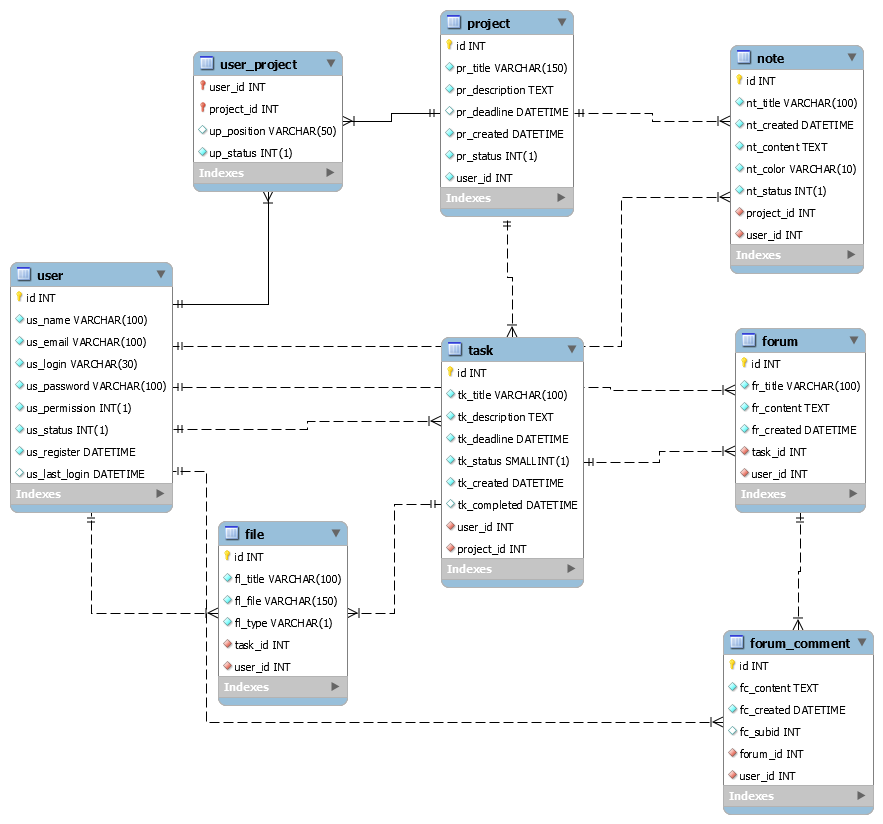
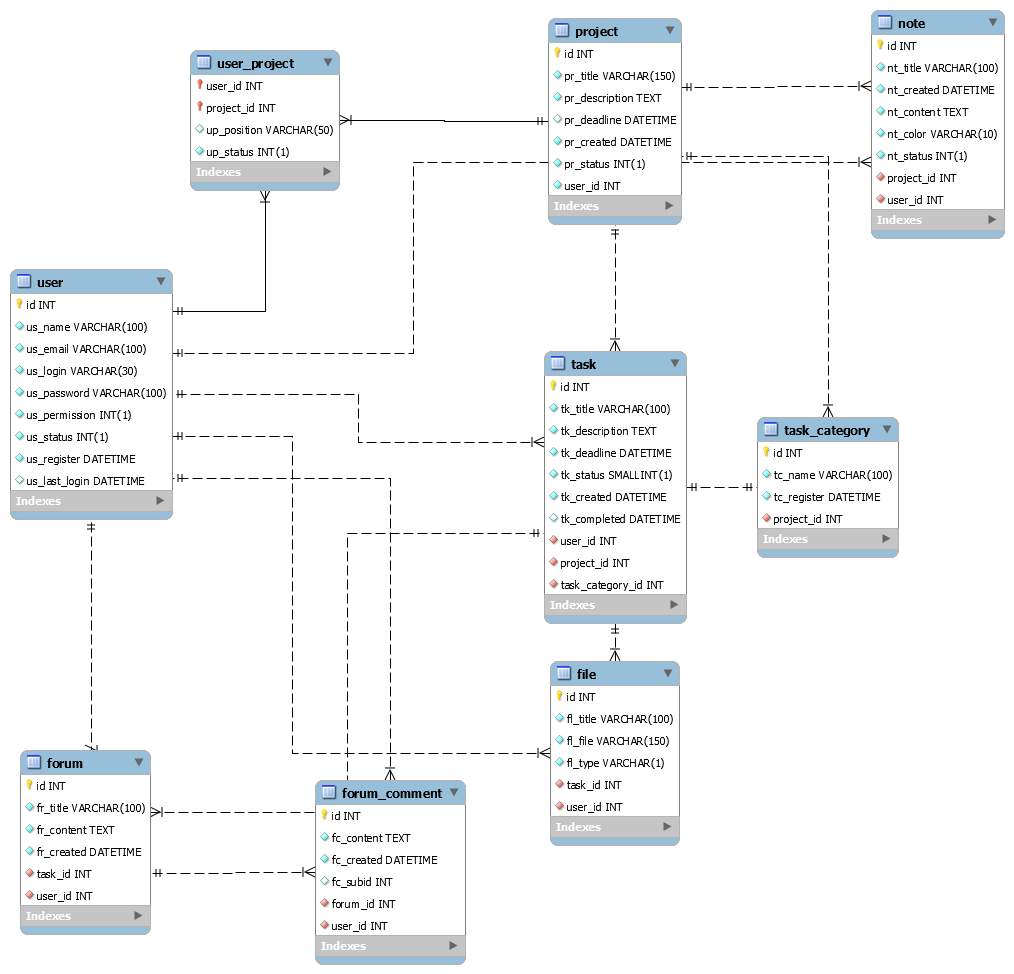
Include task category select in CRUD task

diff --git a/Public/js/task.js b/Public/js/task.js
@@ -6,7 +6,7 @@ document.addEventListener("DOMContentLoaded", function(){
   });
 }, false);
 
-function validateProject(update = false){
+function validateTask(update = false){
   var msg = "";
 
   if(update && valueById("txtId") <= 0)
@@ -23,6 +23,9 @@ function validateProject(update = false){
 
   if(valueById("slStatus") < 1 || valueById("slStatus") > 3)
     msg += "<p>- Status inválido</p>";
+
+  if(valueById("slCategory") < 1 || valueById("slStatus") == "")
+    msg += "<p>- Selecione uma categoria</p>";
 
   setHTMLById("dvAlert", msg);
 

diff --git a/App/Model/TaskModel.php b/App/Model/TaskModel.php
@@ -12,7 +12,7 @@ class TaskModel{
 
   public function store(Task $task){
     try{
-      $sql = "INSERT INTO task (tk_title, tk_description, tk_deadline, tk_created, tk_status, user_id, project_id) VALUES (:title, :description, :deadline, :created, :status, :userid, :projectid)";
+      $sql = "INSERT INTO task (tk_title, tk_description, tk_deadline, tk_created, tk_status, user_id, task_category_id, project_id) VALUES (:title, :description, :deadline, :created, :status, :userid, :taskcategoryid, :projectid)";
 
       $params = array(
         ":title"       => $task->getTitle(),
@@ -20,6 +20,7 @@ class TaskModel{
         ":deadline"    => $task->getDeadline(),
         ":created"     => $task->getCreated(),
         ":status"      => $task->getStatus(),
+        ":taskcategoryid" => $task->getCategory()->getId(),
         ":userid"      => $task->getUser()->getId(),
         ":projectid"   => $task->getProject()->getId()
       );
@@ -38,7 +39,7 @@ class TaskModel{
 
   public function update(Task $task){
     try{
-      $sql = "UPDATE task SET tk_title = :title, tk_description = :description,tk_completed = :completed, tk_deadline = :deadline, tk_status = :status WHERE user_id = :userid AND project_id = :projectid AND id = :id";
+      $sql = "UPDATE task SET tk_title = :title, tk_description = :description,tk_completed = :completed, tk_deadline = :deadline, tk_status = :status, task_category_id = :taskcategoryid WHERE user_id = :userid AND project_id = :projectid AND id = :id";
 
       $params = array(
         ":id"          => $task->getId(),
@@ -48,6 +49,7 @@ class TaskModel{
         ":completed"    => $task->getCompleted(),
         ":status"      => $task->getStatus(),
         ":userid"      => $task->getUser()->getId(),
+        ":taskcategoryid" => $task->getCategory()->getId(),
         ":projectid"   => $task->getProject()->getId()
       );
 
@@ -65,7 +67,7 @@ class TaskModel{
 
   public function getById(int $taskId, int $projectId){
     try{
-      $sql = "SELECT t.tk_title, t.tk_description, t.tk_deadline, t.tk_status, t.tk_created, t.tk_completed, u.us_name, u.id as userid FROM task t INNER JOIN user u ON u.id = t.user_id WHERE t.project_id = :projectid AND t.id = :taskid";
+      $sql = "SELECT t.tk_title, t.tk_description, t.tk_deadline, t.tk_status, t.tk_created, t.task_category_id, t.tk_completed, tc.tc_name, u.us_name, u.id as userid FROM task t INNER JOIN user u ON u.id = t.user_id INNER JOIN task_category tc ON tc.id = t.task_category_id WHERE t.project_id = :projectid AND t.id = :taskid";
       $params = array(
         ":projectid" => $projectId,
         ":taskid" => $taskId
@@ -74,14 +76,16 @@ class TaskModel{
       $dr = $this->pdo->ExecuteQueryOneRow($sql, $params);
       return (object)[
         "id" => $taskId,
-        "title" => $dr["tk_title"],
-        "description" => $dr["tk_description"],
-        "deadline" => $dr["tk_deadline"],
-        "status" => $dr["tk_status"],
-        "created" => $dr["tk_created"],
-        "completed" => $dr["tk_completed"],
-        "userid" => $dr["userid"],
-        "username" => $dr["us_name"],
+        "title" => $dr["tk_title"] ?? null,
+        "description" => $dr["tk_description"] ?? null,
+        "deadline" => $dr["tk_deadline"] ?? null,
+        "status" => $dr["tk_status"] ?? null,
+        "created" => $dr["tk_created"] ?? null,
+        "completed" => $dr["tk_completed"] ?? null,
+        "taskCategoryId" => $dr["task_category_id"] ?? null,
+        "taskCategoryName" => $dr["tc_name"] ?? null,
+        "userid" => $dr["userid"] ?? null,
+        "username" => $dr["us_name"] ?? null
       ];
     }catch(PDOException $ex){
       echo $ex->getMessage();
@@ -89,14 +93,15 @@ class TaskModel{
     }
   }
 
-  public function getAllResumed(int $projectId = 0){
+  public function getAllResumed(int $projectId = 0, $limit = 2){
     try{
-      $sql = "SELECT t.id, t.tk_title, t.tk_deadline, t.tk_status, t.tk_created, t.tk_completed, u.us_name FROM task t INNER JOIN user u ON u.id = t.user_id WHERE t.project_id = :projectid ORDER BY t.tk_created DESC";
-      $param = array(
-        ":projectid" => $projectId
-      );
+      $sql = "SELECT t.id, t.tk_title, t.tk_deadline, t.tk_status, t.tk_created, t.tk_completed, tc.tc_name, u.us_name FROM task t INNER JOIN user u ON u.id = t.user_id INNER JOIN task_category tc ON tc.id = t.task_category_id WHERE t.project_id = :projectid ORDER BY t.tk_created DESC LIMIT :limit";
+      $params = [
+        ":projectid" => $projectId,
+        ":limit"     => $limit
+      ];
 
-      $dt = $this->pdo->ExecuteQuery($sql, $param);
+      $dt = $this->pdo->ExecuteQuery($sql, $params);
       $list = [];
 
       foreach($dt as $dr){
@@ -106,6 +111,7 @@ class TaskModel{
           "deadline" => $dr["tk_deadline"],
           "status" => $dr["tk_status"],
           "created" => $dr["tk_created"],
+          "taskCategoryName" => $dr["tc_name"],
           "completed" => $dr["tk_completed"],
           "username" => $dr["us_name"]
         ];

diff --git a/App/Controller/TaskController.php b/App/Controller/TaskController.php
@@ -4,6 +4,7 @@ namespace App\Controller;
 use App\Core\Controller;
 use App\Model\TaskModel;
 use App\Model\ForumModel;
+use App\Model\CategoryModel;
 use App\Model\UploadModel;
 use App\Entity\Task;
 
@@ -22,7 +23,9 @@ class TaskController extends Controller{
   }
 
   public function create(){
-    $this->Load("task/create.php");
+    $this->Load("task/create.php", [
+      "categoryList" => (new CategoryModel)->getAllByProjectId($_COOKIE['pi'])
+    ]);
   }
 
   public function Headercreate(){
@@ -32,10 +35,13 @@ class TaskController extends Controller{
   public function store(){
     $task = new Task();
 
+    $deadLine = filter_input(INPUT_POST, "txtDeadline", FILTER_SANITIZE_STRING);
+
     $task->setTitle(filter_input(INPUT_POST, "txtTitle", FILTER_SANITIZE_STRING));
     $task->setDescription(filter_input(INPUT_POST, "txtDescription", FILTER_SANITIZE_SPECIAL_CHARS));
-    $task->setDeadline(filter_input(INPUT_POST, "txtDeadline", FILTER_SANITIZE_STRING));
+    $task->setDeadline($deadLine . " 23:59:59 ");
     $task->setStatus(filter_input(INPUT_POST, "slStatus", FILTER_SANITIZE_NUMBER_INT));
+    $task->getCategory()->setId(filter_input(INPUT_POST, "slCategory", FILTER_SANITIZE_NUMBER_INT));
     $task->setCreated(getCurrentDate());
     $task->getUser()->setId($_SESSION["i"]);
     $task->getProject()->setId($_COOKIE['pi']);
@@ -43,9 +49,9 @@ class TaskController extends Controller{
     $id = $this->taskModel->store($task);
 
     if($id > 0)
-    redirect(BASE . "task/show/{$id}");
+      redirect(BASE . "task/show/{$id}");
     else
-    $this->Load("task/result.php", ["message" => "Houve um erro ao tentar cadastrar"]);
+      $this->Load("task/result.php", ["message" => "Houve um erro ao tentar cadastrar"]);
   }
 
   //UPDATE
@@ -66,7 +72,8 @@ class TaskController extends Controller{
 
     $this->Load("task/edit.php", [
       "task" => $task,
-      "editable" => $editable
+      "editable" => $editable,
+      "categoryList" => (new CategoryModel)->getAllByProjectId($_COOKIE['pi'])
     ]);
   }
 
@@ -77,11 +84,14 @@ class TaskController extends Controller{
   public function update(){
     $task = new Task();
 
+    $deadLine = filter_input(INPUT_POST, "txtDeadline", FILTER_SANITIZE_STRING);
+
     $task->setId(filter_input(INPUT_POST, "txtId", FILTER_SANITIZE_NUMBER_INT));
     $task->setTitle(filter_input(INPUT_POST, "txtTitle", FILTER_SANITIZE_STRING));
     $task->setDescription(filter_input(INPUT_POST, "txtDescription", FILTER_SANITIZE_SPECIAL_CHARS));
-    $task->setDeadline(filter_input(INPUT_POST, "txtDeadline", FILTER_SANITIZE_STRING));
+    $task->setDeadline($deadLine . " 23:59:59 ");
     $task->setStatus(filter_input(INPUT_POST, "slStatus", FILTER_SANITIZE_NUMBER_INT));
+    $task->getCategory()->setId(filter_input(INPUT_POST, "slCategory", FILTER_SANITIZE_NUMBER_INT));
 
     if($task->getStatus() == 3){
       $task->setCompleted(getCurrentDate());

diff --git a/App/View/task/edit.php b/App/View/task/edit.php
@@ -13,7 +13,7 @@
       </div>
     </div>
 
-    <form action="<?=BASE?>task/update" method="post" onsubmit="return validateProject(true);">
+    <form action="<?=BASE?>task/update" method="post" onsubmit="return validateTask(true);">
       <div class="row">
         <div class="col-md-4">
           <label for="txtTitle">Título</label>
@@ -21,12 +21,21 @@
           <input type="text" name="txtTitle" id="txtTitle" class="form-control" placeholder="Project title" value="<?=$task->title;?>" <?=!$editable ? "disabled" : ""?>>
         </div>
 
-        <div class="col-md-4">
+        <div class="col-md-2">
           <label for="txtDeadline">Deadline</label>
-          <input type="datetime-local" name="txtDeadline" id="txtDeadline" class="form-control" value="<?=convertDate($task->deadline, "Y-m-d\TH:i:s");?>" <?=!$editable ? "disabled" : ""?>>
+          <input type="date" name="txtDeadline" id="txtDeadline" class="form-control" value="<?=convertDate($task->deadline, "Y-m-d");?>" <?=!$editable ? "disabled" : ""?>>
         </div>
 
-        <div class="col-md-4">
+        <div class="col-md-3">
+          <label for="slStatus">Categoria</label>
+          <select class="form-control" name="slCategory" id="slCategory">
+            <?php foreach($categoryList as $category) :?>
+              <option value="<?=$category->id?>" class="text-info" <?=$category->id == $task->taskCategoryId ? "selected" : "" ?>><?=$category->name?></option>
+            <?php endforeach;?>
+          </select>
+        </div>
+
+        <div class="col-md-3">
           <label for="slStatus">Status</label>
           <select class="form-control" name="slStatus" id="slStatus" <?=!$editable ? "disabled" : ""?>>
             <option value="1" <?=$task->status == 1 ? "selected" : "";?> class="text-success">Ativo</option>

diff --git a/App/View/task/show.php b/App/View/task/show.php
@@ -13,7 +13,7 @@
       </div>
 
       <div class="col-md-6">
-        <?php if( $task->completed == null): ?>
+        <?php if($task->status == 1): ?>
           <a href="<?=BASE?>forum/create/<?=$task->id?>" class="btn btn-info">Novo fórum</a>
           <a href="#" class="btn btn-primary" data-toggle="modal" data-target="#modalUpload">Upload</a>
         <?php endif; ?>
@@ -31,8 +31,8 @@
               <tr>
                 <th>Criado</th>
                 <th>Deadline</th>
-                <th>Finalizado</th>
                 <th>Status</th>
+                <th>Categoria</th>
                 <th>Autor</th>
                 <th></th>
               </tr>
@@ -41,8 +41,16 @@
               <tr class="table-info">
                 <td><?=convertDate($task->created, DATETIME_FORMAT)?></td>
                 <td><?=convertDate($task->deadline, DATE_FORMAT)?></td>
-                <td><?=$task->completed != null ? convertDate($task->completed, DATETIME_FORMAT) : "Em aberto"?></td>
-                <td><?=$task->status == 1 ? "Ativo" : "Finalizado";?></td>
+                <td><?php
+                if($task->status == 1){
+                  echo "Ativo";
+                }elseif($task->status == 2){
+                  echo "<span class='text-primary'>Cancelado</span>";
+                }else{
+                  echo "Finalizado";
+                }
+                ?></td>
+                <td><?=$task->taskCategoryName;?></td>
                 <td><?=$task->username;?></td>
                 <td><?php if($task->userid == $_SESSION['i'] && $task->completed == null){ ?>
                   <a href="<?=BASE?>task/edit/<?=$task->id;?>" class="btn btn-primary btn-sm">Editar</a>

diff --git a/App/Controller/ProjectController.php b/App/Controller/ProjectController.php
@@ -50,9 +50,9 @@ class ProjectController extends Controller{
 
     $msg = "";
     if($this->projectModel->store($project))
-      $msg = "<span class='text-success'>Projeto criado</span>";
+    $msg = "<span class='text-success'>Projeto criado</span>";
     else
-      $msg = "<span class='text-danger'>Houve um erro ao tentar criar o projeto</span>";
+    $msg = "<span class='text-danger'>Houve um erro ao tentar criar o projeto</span>";
 
     $this->Load("project/result.php", ["message" => $msg]);
   }
@@ -94,14 +94,13 @@ class ProjectController extends Controller{
 
     $msg = "";
     if($this->projectModel->update($project))
-    $msg = "<span class='text-success'>Projeto editado</span>";
+      $msg = "<span class='text-success'>Projeto editado</span>";
     else
-    $msg = "<span class='text-danger'>Houve um erro ao tentar editar o projeto</span>";
+      $msg = "<span class='text-danger'>Houve um erro ao tentar editar o projeto</span>";
 
     $this->Load("project/result.php", ["message" => $msg]);
   }
 
-  /*SHOW*/
   public function show($id = 0){
     $this->protectMethod();
     if($id > 0){
@@ -133,7 +132,7 @@ class ProjectController extends Controller{
       }
       $project = $this->projectModel->getById($_COOKIE['pi']);
       $notes = (new \App\Model\NoteModel())->getAllResumed($_COOKIE['pi'], 6);
-      $task = (new \App\Model\TaskModel())->getAllResumed($_COOKIE['pi']);
+      $task = (new \App\Model\TaskModel())->getAllResumed($_COOKIE['pi'], 10);
       $this->Load("project/myproject.php",
       [
         "project"  => $project,

diff --git a/App/View/task/create.php b/App/View/task/create.php
@@ -13,19 +13,28 @@
       </div>
     </div>
 
-    <form action="<?=BASE?>task/store" method="post" onsubmit="return validateProject(false);">
+    <form action="<?=BASE?>task/store" method="post" onsubmit="return validateTask(false);">
       <div class="row">
         <div class="col-md-4">
           <label for="txtTitle">Título</label>
           <input type="text" name="txtTitle" id="txtTitle" class="form-control" placeholder="Project title">
         </div>
 
-        <div class="col-md-4">
+        <div class="col-md-2">
           <label for="txtDeadline">Deadline</label>
-          <input type="datetime-local" name="txtDeadline" id="txtDeadline" class="form-control">
+          <input type="date" name="txtDeadline" id="txtDeadline" class="form-control">
         </div>
 
-        <div class="col-md-4">
+        <div class="col-md-3">
+          <label for="slStatus">Categoria</label>
+          <select class="form-control" name="slCategory" id="slCategory">
+            <?php foreach($categoryList as $category) :?>
+              <option value="<?=$category->id?>" class="text-info"><?=$category->name?></option>
+            <?php endforeach;?>
+          </select>
+        </div>
+
+        <div class="col-md-3">
           <label for="slStatus">Status</label>
           <select class="form-control" name="slStatus" id="slStatus">
             <option value="1" class="text-info">Ativo</option>

diff --git a/App/Entity/Task.php b/App/Entity/Task.php
@@ -2,6 +2,7 @@
 namespace App\Entity;
 use App\Entity\Project;
 use App\Entity\User;
+use App\Entity\Category;
 
 class Task{
 
@@ -12,13 +13,15 @@ class Task{
 	private $created;
 	private $completed;
 	private $status;
-	private $user;
 	private $project;
+	private $user;
+	private $category;
 
-  public function __construct(){
-    $this->user    = new User();
-    $this->project = new Project();
-  }
+	public function __construct(){
+		$this->user    = new User();
+		$this->project = new Project();
+		$this->category = new Category();
+	}
 
 	public function setId($id){
 		$this->id = $id;
@@ -56,6 +59,10 @@ class Task{
 		$this->project = $project;
 	}
 
+	public function setCategory($category){
+		$this->category = $category;
+	}
+
 	public function getId(){
 		return $this->id;
 	}
@@ -90,5 +97,9 @@ class Task{
 
 	public function getProject(){
 		return $this->project;
+	}
+
+	public function getCategory(){
+		return $this->category;
 	}
 }

diff --git a/App/View/project/myproject.php b/App/View/project/myproject.php
@@ -54,6 +54,7 @@
                 <th>Deadline</th>
                 <th>Finalizado</th>
                 <th>Status</th>
+                <th>Categoria</th>
                 <th>Autor</th>
                 <th></th>
               </tr>
@@ -78,6 +79,7 @@
                   <td><?=convertDate($task->deadline, DATETIME_FORMAT);?></td>
                   <td><?=$task->completed != null ? convertDate($task->completed, DATETIME_FORMAT) : "Em aberto"?></td>
                   <td class="<?=$color;?> font-weight-bold"><?=$status;?></td>
+                  <td><?=$task->taskCategoryName;?></td>
                   <td><?=$task->username;?></td>
                   <td><a href="<?=BASE?>task/show/<?=$task->id;?>" class="btn btn-info btn-sm">Visualizar</a></td>
                 </tr>
